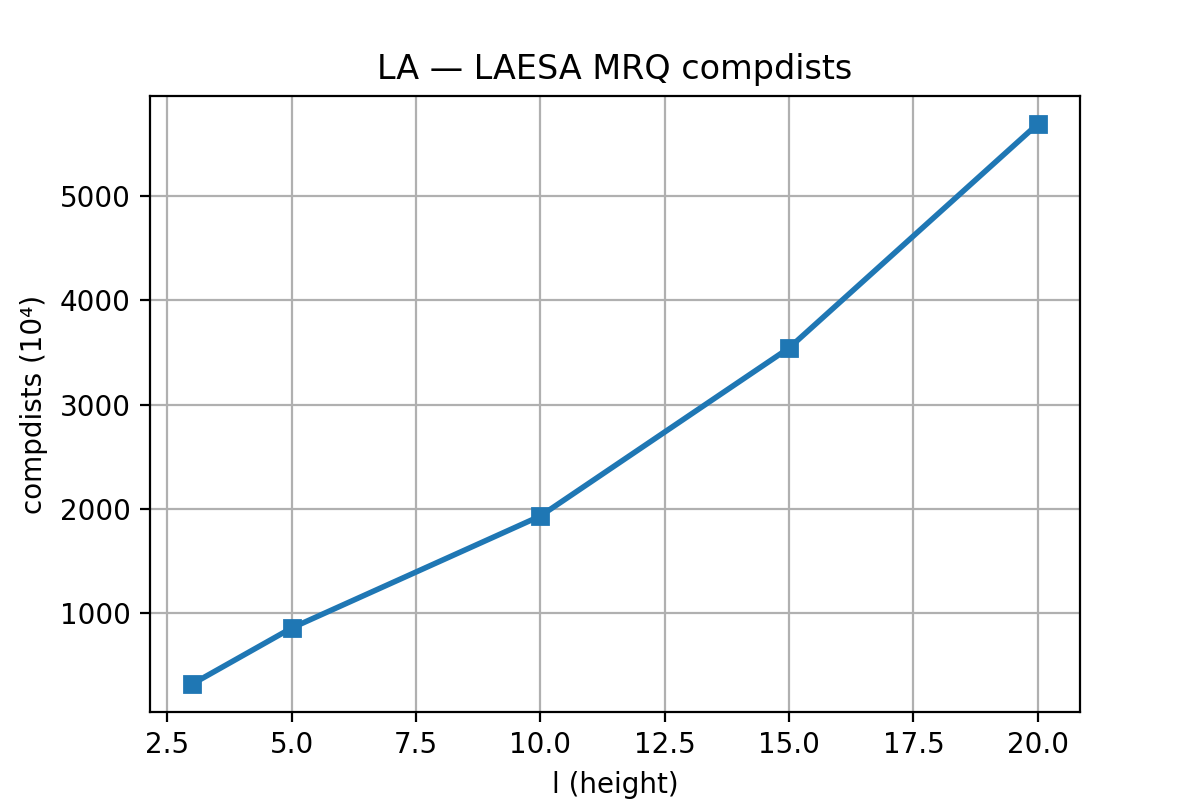
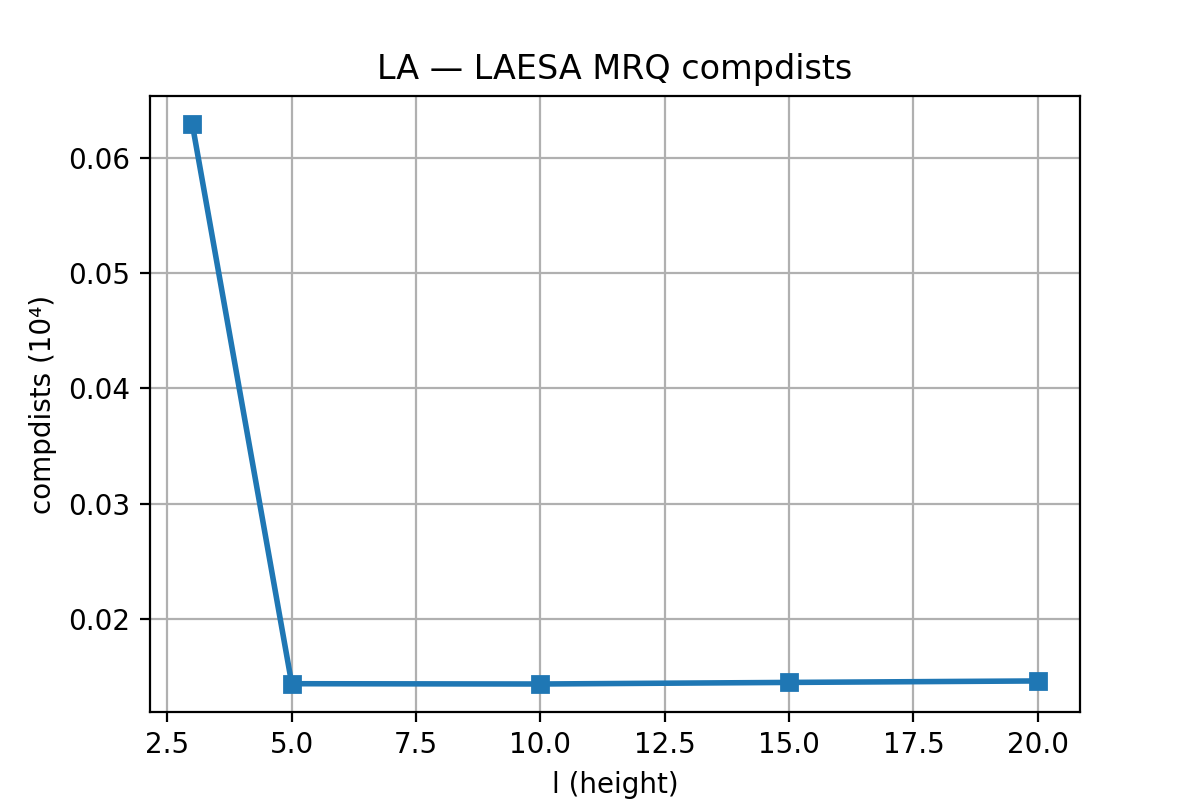
updating LAESA metrics

diff --git a/main_memory/LAESA/laesa.hpp b/main_memory/LAESA/laesa.hpp
@@ -114,7 +114,8 @@ double LAESA::lowerBound(const vector<double> &queryDists, int objectIdx) const
 void LAESA::rangeSearch(int queryId, double radius, vector<int> &result) const 
 {
     int n = db->size();
-    compdists = compdistsBuild;  // Start counting from precomputed distances
+    //compdists = compdistsBuild;  // Start counting from precomputed distances
+    compdists = 0;
 
     // 1. Calculate distances from the query to the pivots
     vector<double> queryDists(nPivots);
@@ -158,7 +159,8 @@ void LAESA::knnSearch(int queryId, int k, vector<ResultElem> &out) const
     int n = db->size();
     priority_queue<ResultElem> pq;  // Max-heap to maintain top k results
     
-    compdists = compdistsBuild;  // Start counting from precomputed distances
+    //compdists = compdistsBuild;  // Start counting from precomputed distances
+    compdists = 0;
 
     // 1. Calculate distances from the query to the pivots and add them
     vector<double> queryDists(nPivots);

diff --git a/main_memory/LAESA/LAESA_benchmark.md b/main_memory/LAESA/LAESA_benchmark.md
@@ -186,7 +186,7 @@ These JSON files can be merged with other index results (BST, BKT, GNAT, PM-Tree
 1. **Compile**
 
 ```bash
-g++ -O3 -std=gnu++17 test_laesa.cpp -o laesa_test
+g++ -O3 -std=gnu++17 test.cpp -o laesa_test
 ```
 
 2. **Run**
